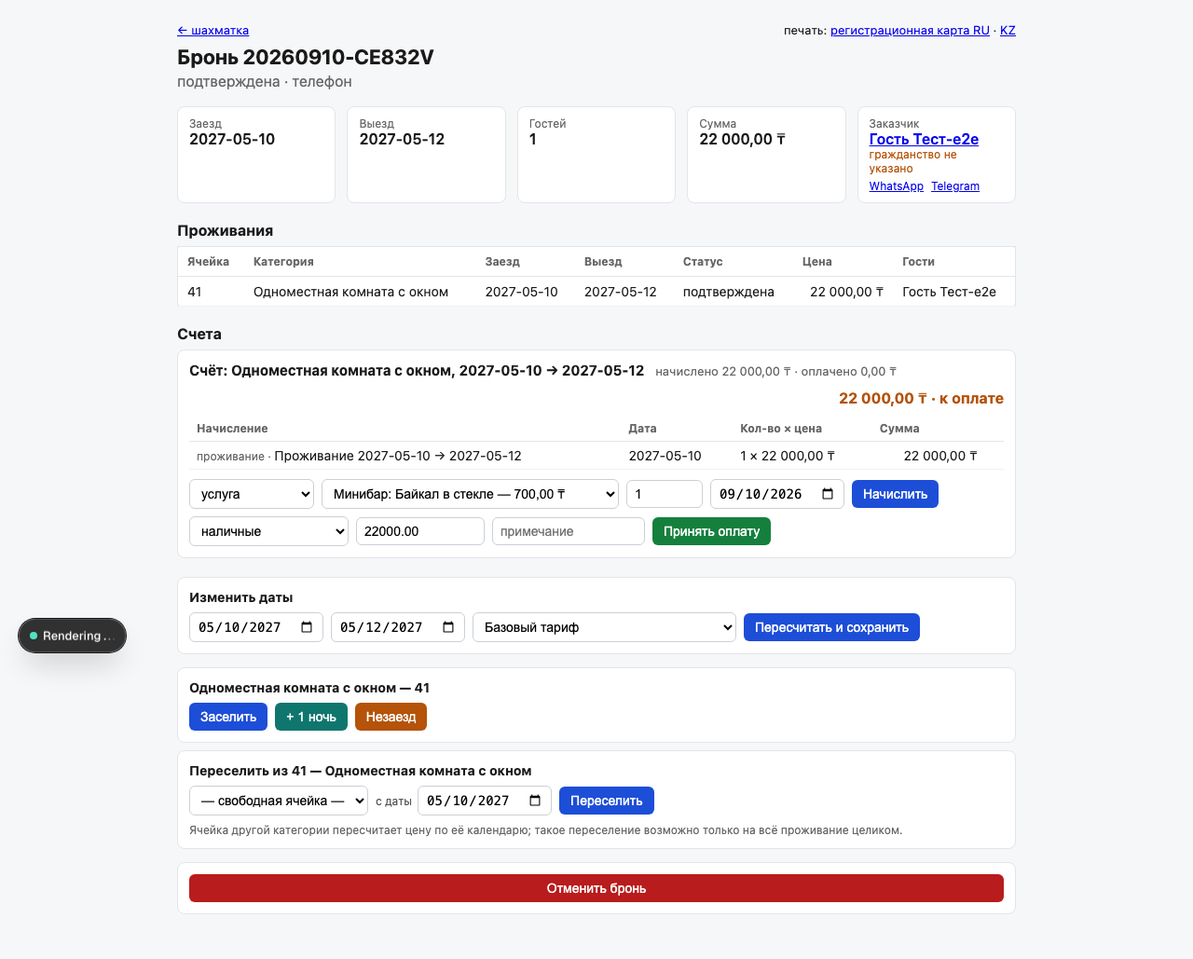
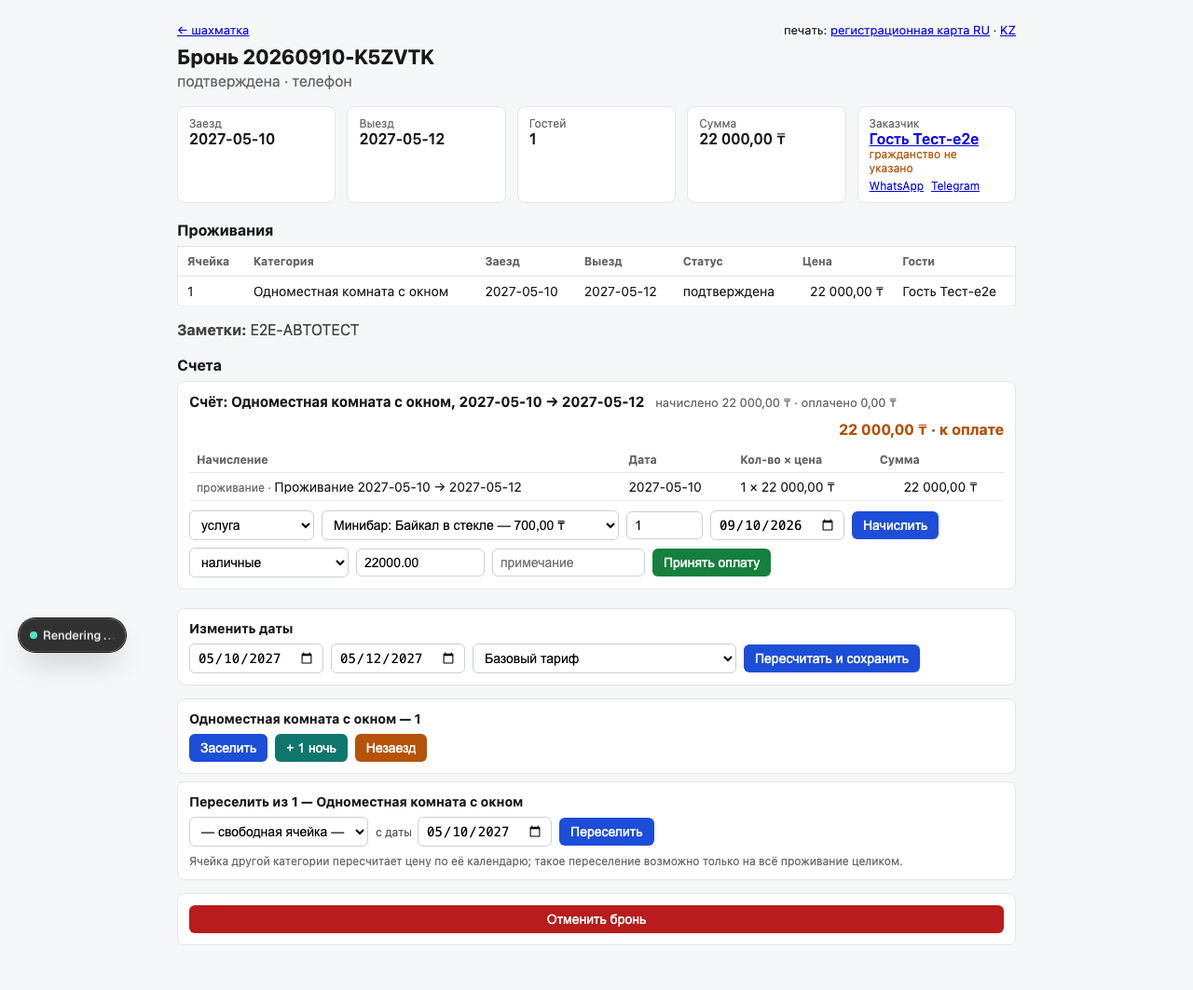
fix(reconciliation): compare what the chessboard actually draws, and stop autotest bookings from occupying real beds
Сверка суток считала занятость по проживаниям, а шахматка рисует НАЗНАЧЕНИЯ. Проживание без
ячейки на сетке не видно вообще, но в сверку попадало — то есть отчёт мог сойтись по данным,
которых нет на экране. Теперь в отчёте отдельная строка «из них видно на шахматке» и поимённый
список проживаний без ячейки, а RESULT становится FAIL, пока такие есть.

Первый же честный прогон показал два таких проживания за 10.09 и одну настоящую причину:
импорт при конфликте ячейки просто пропускал назначение. Теперь конфликтные проживания
рассаживаются по свободным ячейкам своей категории — но отдельным проходом ПОСЛЕ основного,
иначе занятие «первой свободной» вытесняет бронь, которая ещё не обработана, и вытеснение идёт
по цепочке (проверено: количество проживаний без ячейки не менялось, менялись имена). Исходная
комната названа в отчёте, стойка переселит, если нужна именно она.

Вторая причина оказалась хуже: брони автотестов живут в той же базе и занимали настоящие койки.
В логе синхронизации это видно как «ячейка 30 занята 20260910-5Y9EQS» — вытеснялась реальная
бронь Exely. Найдено и освобождено 32 таких брони. Чтобы не накапливалось: тесты помечают свои
брони заметкой, сверка их исключает и пишет сколько, а Playwright после прогона отменяет их той
же командой, что и стойка. Отбор по номеру, выданному PMS: у броней Exely гости тоже
анонимизированы в «Тест-», и по фамилии их различить нельзя — на сухом прогоне это дало 1405
кандидатов против 32 настоящих.
[…]

diff --git a/scripts/reconciliation/src/cli-double-entry.ts b/scripts/reconciliation/src/cli-double-entry.ts
@@ -31,6 +31,12 @@ interface Counts {
   byCategory: Record<string, number>;
 }
 const empty = (): Counts => ({ arrivals: 0, departures: 0, occupied: 0, byCategory: {} });
+/** Метка автотестов: такие брони есть только в PMS и в сверку с Exely не идут */
+const E2E_NOTE = 'E2E-АВТОТЕСТ';
+let e2eSkipped = 0;
+/** Сколько занятых клеток на сетке: проживание без назначенной ячейки шахматка не рисует */
+let cellsOnGrid = 0;
+const withoutUnit: Array<{ number: string; category: string; stay: string }> = [];
 
 // ── Exely: активные брони, затрагивающие сутки ──
 const client = new exely.ExelyUniversalClient({ apiKey: key });
@@ -85,10 +91,25 @@ try {
       arrivalDate: true,
       departureDate: true,
       accommodationType: { select: { exelyId: true, id: true, name: true } },
-      reservation: { select: { confirmationNumber: true } },
+      reservation: { select: { confirmationNumber: true, notes: true } },
+      // Шахматка рисует НАЗНАЧЕНИЯ, а не проживания: проживание без ячейки на сетке не видно вовсе.
+      // Поэтому в отчёт идёт и то, и другое — иначе сверка проходит по данным, которых нет на экране.
+      allocations: {
+        where: {
+          startDate: { lte: new Date(`${DATE}T00:00:00Z`) },
+          endDate: { gt: new Date(`${DATE}T00:00:00Z`) },
+        },
+        select: { inventoryUnit: { select: { code: true } } },
+      },
     },
   });
   for (const it of items) {
+    // Брони, созданные автотестами, живут в той же базе. Они не существуют в Exely и сдвинули бы
+    // сверку на ровно своё количество, поэтому исключаются явно и пересчитываются в отчёт.
+    if (it.reservation.notes === E2E_NOTE) {
+      e2eSkipped += 1;
+      continue;
+    }
     const ci = it.arrivalDate.toISOString().slice(0, 10);
     const co = it.departureDate.toISOString().slice(0, 10);
     if (ci === DATE) pms.arrivals += 1;
@@ -97,6 +118,13 @@ try {
       pms.occupied += 1;
       const k = it.accommodationType.exelyId ?? it.accommodationType.id;
       pms.byCategory[k] = (pms.byCategory[k] ?? 0) + 1;
+      if (it.allocations.length) cellsOnGrid += 1;
+      else
+        withoutUnit.push({
+          number: it.reservation.confirmationNumber,
+          category: it.accommodationType.name,
+          stay: `${ci} → ${co}`,
+        });
       pmsOccupying.push({
         number: it.reservation.confirmationNumber,
         category: it.accommodationType.name,
@@ -111,13 +139,16 @@ try {
 const lines = [
   `# Double entry — ${DATE}`,
   '',
-  `CONTROL: ${new Date().toISOString().slice(0, 16)} UTC · Exely активных броней за сутки: ${numbers.length} (только чтение, без ПД)`,
+  `CONTROL: ${new Date().toISOString().slice(0, 16)} UTC · Exely активных броней за сутки: ${numbers.length} (только чтение, без ПД)` +
+    (e2eSkipped ? ` · исключено проживаний автотестов: ${e2eSkipped}` : ''),
   '',
   '| Metric | PMS | EXELY | DIFF |',
   '|---|---:|---:|---:|',
   `| arrivals | ${pms.arrivals} | ${ex.arrivals} | ${pms.arrivals - ex.arrivals} |`,
   `| departures | ${pms.departures} | ${ex.departures} | ${pms.departures - ex.departures} |`,
   `| occupied units (night) | ${pms.occupied} | ${ex.occupied} | ${pms.occupied - ex.occupied} |`,
+  // строка про сетку: столько занятых клеток увидит администратор на шахматке
+  `| из них видно на шахматке (есть ячейка) | ${cellsOnGrid} | — | ${cellsOnGrid - pms.occupied} |`,
 ];
 const cats = new Set([...Object.keys(pms.byCategory), ...Object.keys(ex.byCategory)]);
 for (const c of [...cats].sort())
@@ -125,6 +156,7 @@ for (const c of [...cats].sort())
     `| ${roomTypeNames.get(c) ?? c} | ${pms.byCategory[c] ?? 0} | ${ex.byCategory[c] ?? 0} | ${(pms.byCategory[c] ?? 0) - (ex.byCategory[c] ?? 0)} |`,
   );
 const ok =
+  withoutUnit.length === 0 &&
   pms.arrivals === ex.arrivals &&
   pms.departures === ex.departures &&
   pms.occupied === ex.occupied &&
@@ -134,6 +166,16 @@ lines.push(
   `RESULT: ${ok ? 'OK — сутки сходятся' : 'FAIL — есть расхождения, поимённый разбор ниже'}`,
   '',
 );
+if (withoutUnit.length) {
+  lines.push(
+    `## Проживания без ячейки — ${withoutUnit.length} (на шахматке их не видно)`,
+    '',
+    '| Бронь | Категория | Проживание |',
+    '|---|---|---|',
+    ...withoutUnit.map((p) => `| ${p.number} | ${p.category} | ${p.stay} |`),
+    '',
+  );
+}
 
 // ── Поимённый разбор: какие именно брони расходятся (Gate 8: расхождение должно быть названо) ──
 if (!ok) {

diff --git a/scripts/imports/src/exely/import-reservations.ts b/scripts/imports/src/exely/import-reservations.ts
@@ -30,6 +30,8 @@ export interface AllocationConflict {
   conflictsWith: string;
   from: string;
   to: string;
+  /** Куда посадили вместо занятой ячейки; null — свободной в категории не нашлось */
+  movedTo: string | null;
 }
 const zero = (): EntityCounts => ({ created: 0, updated: 0 });
 const asDate = (d: string) => new Date(`${d}T00:00:00Z`);
@@ -59,6 +61,14 @@ export async function importReservations(
     select: { id: true, code: true },
   });
   const typeIdByCode = new Map(types.map((t) => [t.code, t.id]));
+  /** Проживания, чью ячейку из Exely занять не удалось: рассаживаются после основного прохода */
+  const displaced: Array<{
+    itemId: string;
+    typeId: string;
+    start: Date;
+    end: Date;
+    conflictIndex: number;
+  }> = [];
   const units = await tx.inventoryUnit.findMany({
     where: { accommodationType: { propertyId: opts.propertyId } },
     select: { id: true, exelyRoomNumber: true },
@@ -255,6 +265,17 @@ export async function importReservations(
             await tx.allocation.delete({ where: { id: existingAlloc.id } });
             report.allocations.released += 1;
           }
+          // Ячейку из Exely занять нельзя. Сажать на первую свободную прямо здесь нельзя тоже:
+          // эта ячейка может быть «родной» для брони, которая ещё не обработана, и тогда вытеснение
+          // пойдёт по цепочке. Поэтому конфликтные проживания собираются и рассаживаются
+          // отдельным проходом, когда все назначения из Exely уже сделаны.
+          displaced.push({
+            itemId,
+            typeId,
+            start: allocData.startDate,
+            end: allocData.endDate,
+            conflictIndex: report.conflicts.length,
+          });
           report.conflicts.push({
             confirmationNumber: r.confirmationNumber,
             exelyRoomNumber: it.exelyRoomNumber,
@@ -263,6 +284,7 @@ export async function importReservations(
             conflictsWith: clash.reservationItem.reservation.confirmationNumber,
             from: clash.startDate.toISOString().slice(0, 10),
             to: clash.endDate.toISOString().slice(0, 10),
+            movedTo: null,
           });
           report.unassigned += 1;
         } else if (existingAlloc) {
@@ -306,5 +328,36 @@ export async function importReservations(
       ),
     },
   });
+
+  // ── Рассадка вытесненных: все назначения из Exely уже сделаны, свободное — действительно свободно ──
+  // Гость без ячейки не виден на шахматке вовсе, поэтому пустая ячейка той же категории лучше, чем
+  // ничего; исходная комната названа в отчёте, стойка переселит, если нужна именно она.
+  const num = (c: string) => (/^\d+$/.test(c) ? Number(c) : Number.POSITIVE_INFINITY);
+  for (const d of displaced) {
+    const free = await tx.inventoryUnit.findMany({
+      where: {
+        accommodationTypeId: d.typeId,
+        active: true,
+        allocations: { none: { startDate: { lt: d.end }, endDate: { gt: d.start } } },
+        blocks: { none: { dateFrom: { lt: d.end }, dateTo: { gt: d.start } } },
+      },
+      select: { id: true, code: true },
+    });
+    free.sort((a, b) => num(a.code) - num(b.code) || a.code.localeCompare(b.code));
+    const unit = free[0];
+    if (!unit) continue;
+    await tx.allocation.create({
+      data: {
+        reservationItemId: d.itemId,
+        inventoryUnitId: unit.id,
+        startDate: d.start,
+        endDate: d.end,
+      },
+    });
+    report.allocations.created += 1;
+    report.unassigned -= 1;
+    report.conflicts[d.conflictIndex]!.movedTo = unit.code;
+  }
+
   return report;
 }

diff --git a/scripts/reconciliation/src/cli-e2e-cleanup.ts b/scripts/reconciliation/src/cli-e2e-cleanup.ts
@@ -1,0 +1,73 @@
+/**
+ * Уборка после e2e: брони, созданные автотестами, занимают настоящие ячейки в общей базе и
+ * вытесняют импорт из Exely (в логе синхронизации это видно как «ячейка N занята 20260910-XXXXXX»).
+ * Скрипт отменяет их через API — той же командой, что и стойка, поэтому ячейки освобождаются,
+ * начисления сторнируются, а журнал действий видит настоящую отмену.
+ *
+ * Метка — заметка брони `E2E-АВТОТЕСТ`, её ставят сами тесты. Ничего другого скрипт не трогает.
+ * Запуск: npx tsx scripts/reconciliation/src/cli-e2e-cleanup.ts [--dry]
+ */
+import { resolve } from 'node:path';
+import { config as loadEnv } from 'dotenv';
+import { createPrismaClient } from '@pms/database';
+
+const ROOT = resolve(import.meta.dirname, '../../..');
+loadEnv({ path: resolve(ROOT, '.env'), quiet: true });
+const E2E_NOTE = 'E2E-АВТОТЕСТ';
+const API = process.env['E2E_API_URL'] ?? 'http://127.0.0.1:3001';
+const dry = process.argv.includes('--dry');
+
+const db = createPrismaClient();
+try {
+  const marked = await db.reservation.findMany({
+    where: {
+      status: { notIn: ['CANCELLED'] },
+      items: { some: { allocations: { some: {} } } },
+      OR: [
+        { notes: E2E_NOTE },
+        // Прогоны до появления метки: номер выдан самой PMS. У броней из Exely номер другого вида
+        // (`…-513903-…`), и их гости тоже анонимизированы в «Тест-» — по фамилии их различить нельзя.
+        { primaryGuest: { lastName: { startsWith: 'Тест-' } } },
+      ],
+    },
+    select: { confirmationNumber: true, status: true, notes: true },
+    orderBy: { createdAt: 'asc' },
+  });
+  // Номер, выданный PMS: ГГГГММДД + шесть знаков. У Exely и каналов формат другой — они не попадут.
+  const ownNumber = /^\d{8}-[A-Z0-9]{6}$/;
+  const mine = marked.filter((r) => r.notes === E2E_NOTE || ownNumber.test(r.confirmationNumber));
+  console.log(
+    `Броней автотестов с занятыми ячейками: ${mine.length} (кандидатов по фамилии было ${marked.length})`,
+  );
+  let freed = 0;
+  const failed: string[] = [];
+  for (const r of mine) {
+    if (dry) {
+      console.log(
+        `  ${r.confirmationNumber} (${r.status}) — ${r.notes === E2E_NOTE ? 'метка' : 'фамилия Тест-'}`,
+      );
+      continue;
+    }
+    const res = await fetch(`${API}/reservations/${encodeURIComponent(r.confirmationNumber)}/cancel`, {
+      method: 'POST',
+    });
+    if (res.ok) {
+      freed += 1;
+      continue;
+    }
+    // Выселенную бронь отменить нельзя — снимаем только назначение, ночь уже состоялась
+    const removed = await db.allocation.deleteMany({
+      where: { reservationItem: { reservation: { confirmationNumber: r.confirmationNumber } } },
+    });
+    if (removed.count) freed += 1;
+    else failed.push(`${r.confirmationNumber} (${r.status}): HTTP ${res.status}`);
+  }
+  if (!dry) console.log(`Освобождено броней: ${freed}`);
+  if (failed.length) {
+    console.log('Не удалось убрать:');
+    for (const f of failed) console.log(`  ${f}`);
+    process.exitCode = 1;
+  }
+} finally {
+  await db.$disconnect();
+}

diff --git a/tests/e2e/cancellation-penalty.spec.ts b/tests/e2e/cancellation-penalty.spec.ts
@@ -23,6 +23,7 @@ test('отмена заранее — без штрафа, незаезд — с
   await form.locator('select[name="accommodationTypeCode"]').selectOption('exely-5074688');
   await form.locator('input[name="firstName"]').fill('Гость');
   await form.locator('input[name="lastName"]').fill('Тест-штраф');
+  await form.locator('textarea[name="notes"]').fill('E2E-АВТОТЕСТ'); // сверка исключает автотесты
   await form.getByRole('button', { name: 'Создать бронь' }).click();
   await expect(page).toHaveURL(/\/reservations\/\d{8}-[A-Z0-9]{6}$/);
 
@@ -52,6 +53,7 @@ test('отмена заранее — без штрафа, незаезд — с
   await unit.selectOption((await unit.locator('option').nth(1).getAttribute('value'))!);
   await f2.locator('input[name="firstName"]').fill('Гость');
   await f2.locator('input[name="lastName"]').fill('Тест-незаезд-штраф');
+  await f2.locator('textarea[name="notes"]').fill('E2E-АВТОТЕСТ'); // сверка исключает автотесты
   await f2.getByRole('button', { name: 'Создать бронь' }).click();
   await expect(page).toHaveURL(/\/reservations\/\d{8}-[A-Z0-9]{6}$/);
   const stay2 = minor(await page.getByTestId('stay-row').first().locator('td').nth(5).innerText());

diff --git a/tests/e2e/check-in-out.spec.ts b/tests/e2e/check-in-out.spec.ts
@@ -22,6 +22,7 @@ test('заселить → карточка и шахматка показыва
   await unitSelect.selectOption(unitCode);
   await form.locator('input[name="firstName"]').fill('Гость');
   await form.locator('input[name="lastName"]').fill('Тест-заезд');
+  await form.locator('textarea[name="notes"]').fill('E2E-АВТОТЕСТ'); // сверка исключает автотесты
   await form.getByRole('button', { name: 'Создать бронь' }).click();
   await expect(page).toHaveURL(/\/reservations\/\d{8}-[A-Z0-9]{6}$/);
   const number = page.url().split('/').pop()!;
@@ -76,6 +77,7 @@ test('заселить → карточка и шахматка показыва
   await freeUnit.selectOption((await freeUnit.locator('option').nth(1).getAttribute('value'))!);
   await f2.locator('input[name="firstName"]').fill('Гость');
   await f2.locator('input[name="lastName"]').fill('Тест-незаезд');
+  await f2.locator('textarea[name="notes"]').fill('E2E-АВТОТЕСТ'); // сверка исключает автотесты
   await f2.getByRole('button', { name: 'Создать бронь' }).click();
   await expect(page).toHaveURL(/\/reservations\/\d{8}-[A-Z0-9]{6}$/);
   page.on('dialog', (d) => d.accept());

diff --git a/tests/e2e/full-day.spec.ts b/tests/e2e/full-day.spec.ts
@@ -30,6 +30,7 @@ test('сутки гостя целиком: заезд, услуга на счё
   await unitSelect.selectOption(unitCode);
   await form.locator('input[name="firstName"]').fill('Гость');
   await form.locator('input[name="lastName"]').fill('Тест-сутки');
+  await form.locator('textarea[name="notes"]').fill('E2E-АВТОТЕСТ'); // сверка исключает автотесты
   await form.getByRole('button', { name: 'Создать бронь' }).click();
   await expect(page).toHaveURL(/\/reservations\/\d{8}-[A-Z0-9]{6}$/);
   const number = page.url().split('/').pop()!;
@@ -85,4 +86,6 @@ test('сутки гостя целиком: заезд, услуга на счё
   const paid = minor(await panel.getByTestId('payment-row').locator('td').nth(2).innerText());
   expect(paid).toBe(withService);
   await expect(page.getByTestId('folio-balance')).toContainText('оплачено');
+  // счёт закрыт и это подписано: иначе администратор видит счёт без форм и не понимает почему
+  await expect(page.getByTestId('folio-closed')).toContainText('счёт закрыт');
 });

diff --git a/scripts/imports/src/cli-import-reservations.ts b/scripts/imports/src/cli-import-reservations.ts
@@ -77,6 +77,7 @@ try {
       arrivalDate: string;
       departureDate: string;
       conflictsWith: string;
+      movedTo: string | null;
       from: string;
       to: string;
     }>,
@@ -129,7 +130,8 @@ try {
     console.log(`  КОНФЛИКТЫ ячеек (назначение пропущено): ${report.conflicts.length}`);
     for (const c of report.conflicts)
       console.log(
-        `    ${c.confirmationNumber} комната ${c.exelyRoomNumber} ${c.arrivalDate} → ${c.departureDate} пересекается с ${c.conflictsWith} (${c.from} → ${c.to})`,
+        `    ${c.confirmationNumber} комната ${c.exelyRoomNumber} ${c.arrivalDate} → ${c.departureDate} пересекается с ${c.conflictsWith} (${c.from} → ${c.to})` +
+          (c.movedTo ? ` → посажен на ${c.movedTo}` : ' → свободной ячейки в категории нет'),
       );
   }
   // Массовый перенос меняет остатки мимо очереди дельт: каналы об этом не узнают, пока не сделать

diff --git a/apps/web/src/app/reservations/[number]/finance-panel.tsx b/apps/web/src/app/reservations/[number]/finance-panel.tsx
@@ -110,6 +110,22 @@ function FolioPanel({
           Счёт: {folio.stay.accommodationTypeName}, {folio.stay.arrivalDate} →{' '}
           {folio.stay.departureDate}
         </b>
+        {!open && (
+          // Без подписи закрытый счёт выглядел просто как счёт без форм: администратор не понимал,
+          // почему нельзя ни начислить, ни принять оплату
+          <span
+            data-testid="folio-closed"
+            style={{
+              fontSize: 12,
+              color: '#374151',
+              background: '#e5e7eb',
+              borderRadius: 4,
+              padding: '2px 8px',
+            }}
+          >
+            счёт закрыт — гость рассчитался и выехал
+          </span>
+        )}
         <span style={{ color: '#666', fontSize: 13 }}>
           начислено {formatMinor(folio.chargedMinor, folio.currency)} · оплачено{' '}
           {formatMinor(folio.paidMinor, folio.currency)}

diff --git a/tests/e2e-teardown.ts b/tests/e2e-teardown.ts
@@ -1,0 +1,17 @@
+/**
+ * После каждого прогона e2e отменяем брони автотестов: они занимают настоящие ячейки в общей базе
+ * и вытесняют импорт из Exely («ячейка N занята 20260910-XXXXXX» в логе синхронизации).
+ * Ошибку уборки не считаем провалом прогона — печатаем, чтобы было видно.
+ */
+import { execFileSync } from 'node:child_process';
+import { resolve } from 'node:path';
+
+export default function globalTeardown(): void {
+  const script = resolve(import.meta.dirname, '../scripts/reconciliation/src/cli-e2e-cleanup.ts');
+  try {
+    const out = execFileSync('npx', ['tsx', script], { encoding: 'utf-8' });
+    process.stdout.write(`[уборка e2e] ${out.trim()}\n`);
+  } catch (e) {
+    process.stdout.write(`[уборка e2e] не выполнена: ${(e as Error).message}\n`);
+  }
+}

diff --git a/scripts/imports/src/cli-sync-day.ts b/scripts/imports/src/cli-sync-day.ts
@@ -93,7 +93,8 @@ try {
   );
   for (const c of report.conflicts)
     console.log(
-      `  конфликт: ${c.confirmationNumber} ячейка ${c.exelyRoomNumber} ${c.arrivalDate} → ${c.departureDate} занята ${c.conflictsWith}`,
+      `  конфликт: ${c.confirmationNumber} ячейка ${c.exelyRoomNumber} ${c.arrivalDate} → ${c.departureDate} занята ${c.conflictsWith}` +
+        (c.movedTo ? ` → посажен на ${c.movedTo}` : ' → свободной ячейки в категории нет'),
     );
   // Массовый перенос меняет остатки мимо очереди дельт: каналы об этом не узнают, пока не сделать
   // полную выгрузку. Пока она не сделана, канал продаёт по старому остатку — прямой риск овербукинга.

diff --git a/tests/e2e/channex-certification.spec.ts b/tests/e2e/channex-certification.spec.ts
@@ -189,6 +189,7 @@ test.describe.serial('Channex certification from the PMS UI', () => {
     await form.locator('select[name="ratePlanCode"]').selectOption(OTA);
     await form.locator('input[name="firstName"]').fill('Гость');
     await form.locator('input[name="lastName"]').fill('Тест-сертификация');
+    await form.locator('textarea[name="notes"]').fill('E2E-АВТОТЕСТ'); // сверка исключает автотесты
     await form.getByRole('button', { name: 'Создать бронь' }).click();
     await expect(page).toHaveURL(/\/reservations\/\d{8}-[A-Z0-9]{6}$/);
     const number = page.url().split('/').pop()!;

diff --git a/tests/e2e/desk-day.spec.ts b/tests/e2e/desk-day.spec.ts
@@ -35,6 +35,7 @@ test('экран «Сегодня» открывается с корня и по
   await form.locator('select[name="accommodationTypeCode"]').selectOption('exely-5074688');
   await form.locator('input[name="firstName"]').fill('Гость');
   await form.locator('input[name="lastName"]').fill('Тест-день');
+  await form.locator('textarea[name="notes"]').fill('E2E-АВТОТЕСТ'); // сверка исключает автотесты
   await form.getByRole('button', { name: 'Создать бронь' }).click();
   await expect(page).toHaveURL(/\/reservations\/\d{8}-[A-Z0-9]{6}$/);
   const number = page.url().split('/').pop()!;
